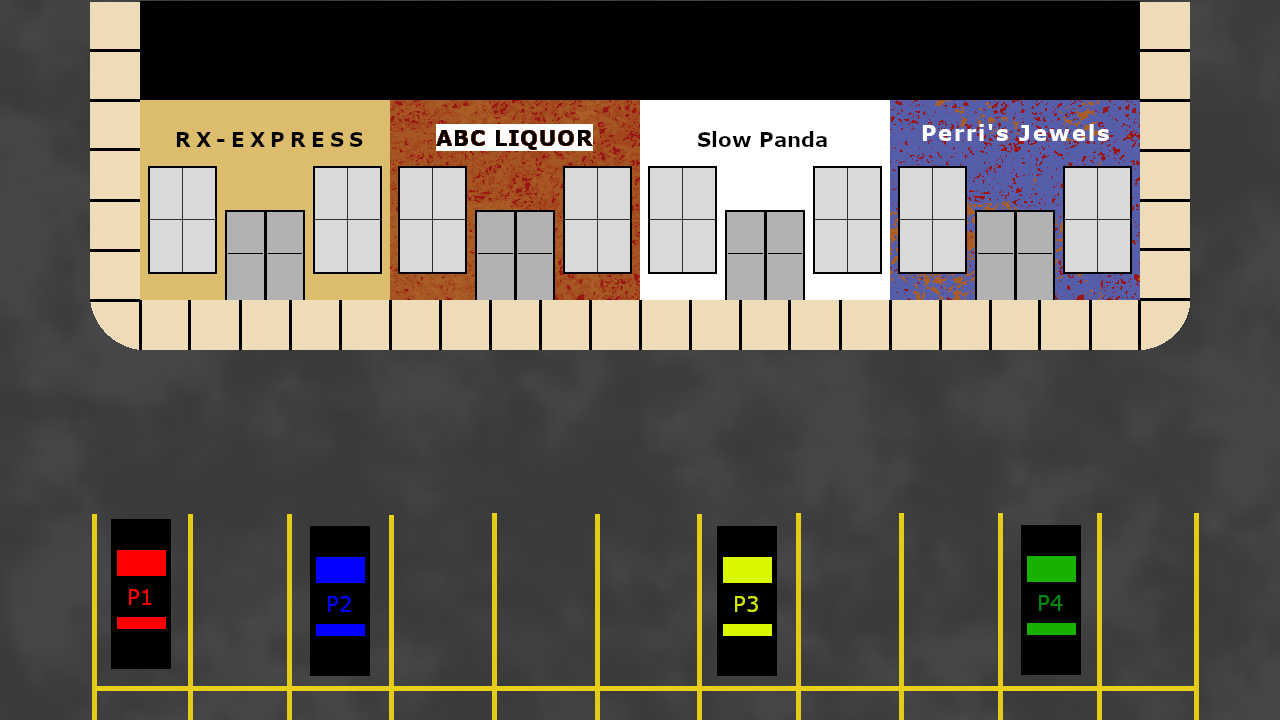
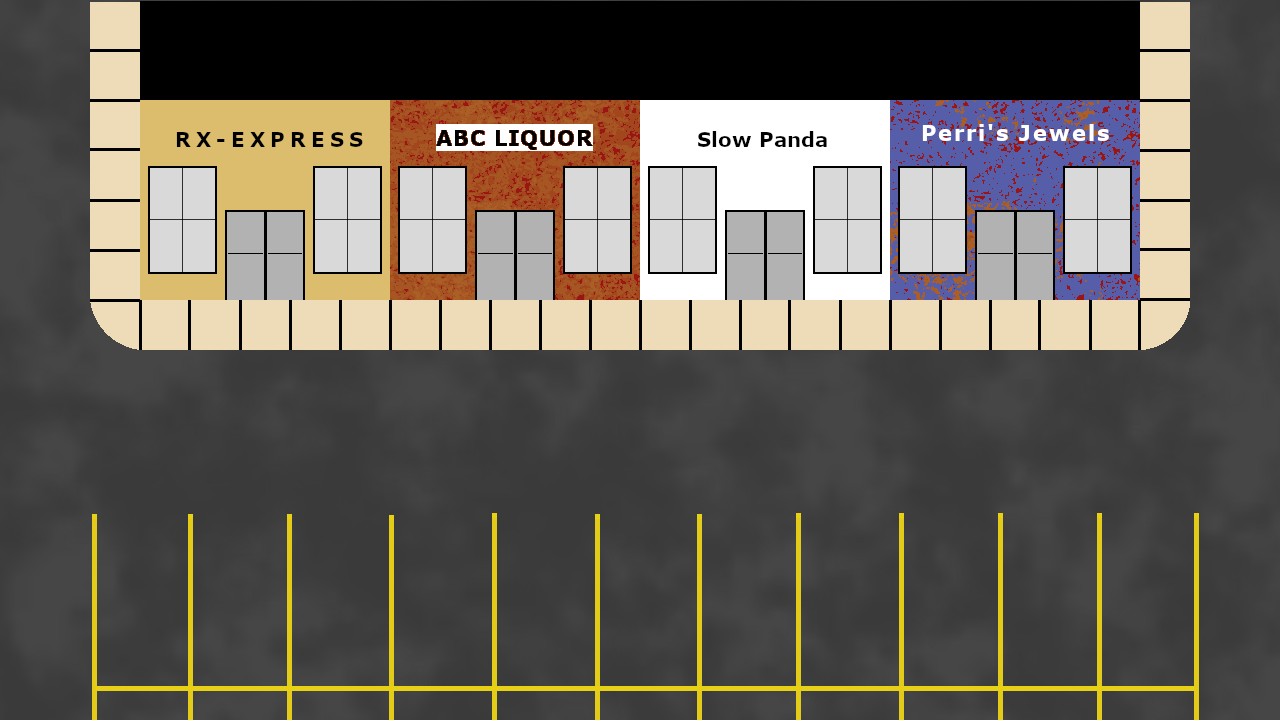
added car kinematic collisions, expanded sensor collisions, individual car sprites, testing for kinematic collisions

diff --git a/SnakeEyes/Code/game.py b/SnakeEyes/Code/game.py
@@ -62,7 +62,9 @@ class Game:
 
         self.moveSpeed = 300
         self.roundSkipped = False
-        self.storeCollider = pygame.Rect((140, 0, 990, 260)) ### bugged, needs fixed
+        self.storeCollider = pygame.Rect((140, 0, 990, 260)) 
+
+        self.loadingScreen = pygame.image.load('SnakeEyes/Assets/Environment/Background/Background.png')
 
         self.playerReset()
         self.playerLocReset()
@@ -163,6 +165,7 @@ class Game:
         self.playerReset()
         self.playerLocReset()
         self.storeReset()
+        self.CarReset()
 
     ### Resets all stores to starting state ###
     def storeReset(self):
@@ -238,7 +241,6 @@ class Game:
             self.Players.append(self.p4)
 
         self.numPlayers = len(self.Players)
-        self.CarReset()
 
 
     ### Resets all carts to starting state ###
@@ -249,28 +251,33 @@ class Game:
             self.c1 = Car()
             self.c1.playerNum = self.p1.playerNum
             self.c1.position = pygame.Vector2(110, 520)
+            self.c1.carSprite = pygame.image.load('SnakeEyes/Assets/Environment/Objects/carP1.png')
             self.Cars.append(self.c1)
 
         if Preferences.BLUE_PLAYER_TYPE == "Player":
             self.c2 = Car()
             self.c2.playerNum = self.p2.playerNum
             self.c2.position = pygame.Vector2(310, 520)
+            self.c2.carSprite = pygame.image.load('SnakeEyes/Assets/Environment/Objects/carP2.png')
             self.Cars.append(self.c2)
         
         if Preferences.YELLOW_PLAYER_TYPE == "Player":
             self.c3 = Car()
             self.c3.playerNum = self.p3.playerNum
             self.c3.position = pygame.Vector2(715, 520)
+            self.c3.carSprite = pygame.image.load('SnakeEyes/Assets/Environment/Objects/carP3.png')
             self.Cars.append(self.c3)
         
         if Preferences.GREEN_PLAYER_TYPE == "Player":
             self.c4 = Car()
             self.c4.playerNum = self.p4.playerNum
             self.c4.position = pygame.Vector2(1020, 520)
+            self.c4.carSprite = pygame.image.load('SnakeEyes/Assets/Environment/Objects/carP4.png')
             self.Cars.append(self.c4)
 
         for c in self.Cars:
-            c.collider = pygame.Rect(c.position.x, c.position.y, 40,150)
+            c.collider = pygame.Rect(c.position.x-20, c.position.y-20, 100,190)
+            c.rb = pygame.Rect(c.position.x, c.position.y, 60,150)
 
 
     def playerStatusReset(self):
@@ -348,7 +355,7 @@ class Game:
         ### Fill Background ###
         self.screen.fill((255,255,255))
         ### Set Background Image ###
-        self.loadingScreen = pygame.image.load('SnakeEyes/Assets/Environment/Background/Background.png')
+        
         self.screen.blit(self.loadingScreen, (0,0))
 
 
@@ -419,6 +426,9 @@ class Game:
         ##### CAR COLLIDERS #####
         ### check for specified player's colision, sets option for cash out if collision is true
         for c in self.Cars:
+            #pygame.draw.rect(self.screen, (255,255,255), c.collider)
+            #pygame.draw.rect(self.screen, (255,0,0), c.rb)
+            self.screen.blit(c.carSprite, c.position)
             for p in self.Players:
                 if c.playerNum == p.playerNum:
                     collide = c.collider.colliderect(p.collider)
@@ -573,7 +583,7 @@ class Game:
                         tempX += self.moveSpeed
                         self.updateCharacterSprite(self.character_sprites, p.character, "right")
 
-                    ### current boundary locations, is bugged and needs 
+                    
                     if tempX != 0 or tempY != 0:
                                     # if both, check for both
                                     if tempX != 0 and tempY != 0:
@@ -750,6 +760,7 @@ class Game:
                                 p.score = p.score + p.tmpScore
                                 p.tmpScore = 0
                                 p.status = -1
+                                self.Cars.remove
                                 self.roundCheck()
                             else:
                         #### if at store, set to ready
@@ -805,11 +816,10 @@ class Game:
             else:
                 #print("Border Hit")
                 return False
+            
         
-
-        #stores & cars
         
-
+        #premptive collision check
         if(tempX != 0):
             player.XCol.center = pygame.Vector2(player.position.x+tempX/11, player.position.y)
             #print("New Location X: "+str(tempCol.center))
@@ -820,12 +830,19 @@ class Game:
         collideX = self.storeCollider.colliderect(player.XCol)
         collideY = self.storeCollider.colliderect(player.YCol)
 
+
         if collideX or collideY:
-            #print("Collision")
-            
             valid = False
-        #else:
         
+        for c in self.Cars:
+            collideX = c.rb.colliderect(player.XCol)
+            collideY = c.rb.colliderect(player.YCol)
+
+            if collideX or collideY:
+                valid = False
+                
+
+
         player.XCol.center = player.position
         player.YCol.center = player.position
         
@@ -891,6 +908,7 @@ class Game:
                     self.alarmedStores = 0
                     self.storeReset()
                     self.playerLocReset()
+                    self.CarReset()
             else:
                 count = 0
                 self.gameOver()
@@ -1096,7 +1114,9 @@ class Car:
     def __init__(self):
         self.playerNum = 0
         self.position = pygame.Vector2(0, 0)
-        self.collider = pygame.Rect(self.position.x, self.position.y, 60,150)
+        self.collider = pygame.Rect(self.position.x, self.position.y, 0,150)
+        self.rb = pygame.Rect(self.position.x, self.position.y, 60,150)
+        self.carSprite = pygame.image.load('SnakeEyes/Assets/Environment/Objects/carP1.png')
         self.ready = False
 
 ########## STORE ##########

diff --git a/SnakeEyes/Tests/test_game_collider.py b/SnakeEyes/Tests/test_game_collider.py
@@ -101,3 +101,25 @@ def test_collider_stop_movement_and_continue_side(setup_game):
 
     game.playerReset()
     game.playerLocReset()
+
+def test_car_has_collide(setup_game):
+    logging.info("Testing car has collider and stops movement")
+    game = setup_game
+    for x in range(40):
+        newevent = pygame.event.Event(pygame.KEYDOWN, key=pygame.K_g, mod=pygame.locals.KMOD_NONE)  
+        pygame.event.post(newevent)  
+        game.run() 
+        #logging.info("Run: "+ str(x)+" | Location: "+ str(game.Players[1].position.y))
+
+    assert(game.Players[1].position.y < 493)
+    location = game.Players[1].position.x
+
+    for x in range(10):
+        newevent = pygame.event.Event(pygame.KEYDOWN, key=pygame.K_f, mod=pygame.locals.KMOD_NONE)  
+        pygame.event.post(newevent)  
+        game.run() 
+
+    assert(game.Players[1].position.x < location)
+
+    game.playerReset()
+    game.playerLocReset()

diff --git a/SnakeEyes/Tests/test_assets.py b/SnakeEyes/Tests/test_assets.py
@@ -55,6 +55,10 @@ def test_environment_background_assets():
 def test_environment_object_assets():
     logging.info("Testing Environment Object Assets")
     assert os.path.exists("SnakeEyes/Assets/Environment/Objects/policeCar.png")
+    assert os.path.exists("SnakeEyes/Assets/Environment/Objects/carP1.png")
+    assert os.path.exists("SnakeEyes/Assets/Environment/Objects/carP2.png")
+    assert os.path.exists("SnakeEyes/Assets/Environment/Objects/carP3.png")
+    assert os.path.exists("SnakeEyes/Assets/Environment/Objects/carP4.png")
 
 def test_icon_assets():
     logging.info("Testing Icon Assets")
